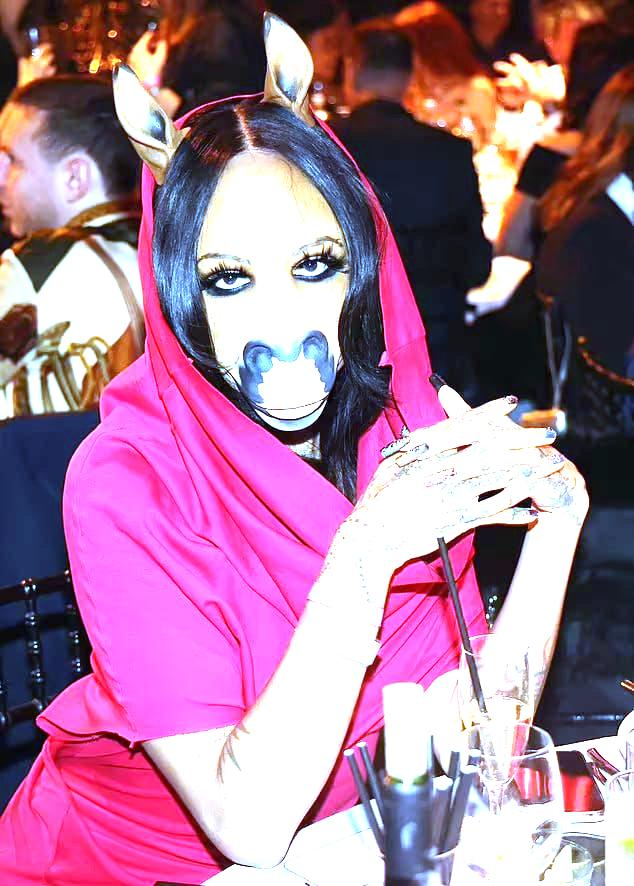
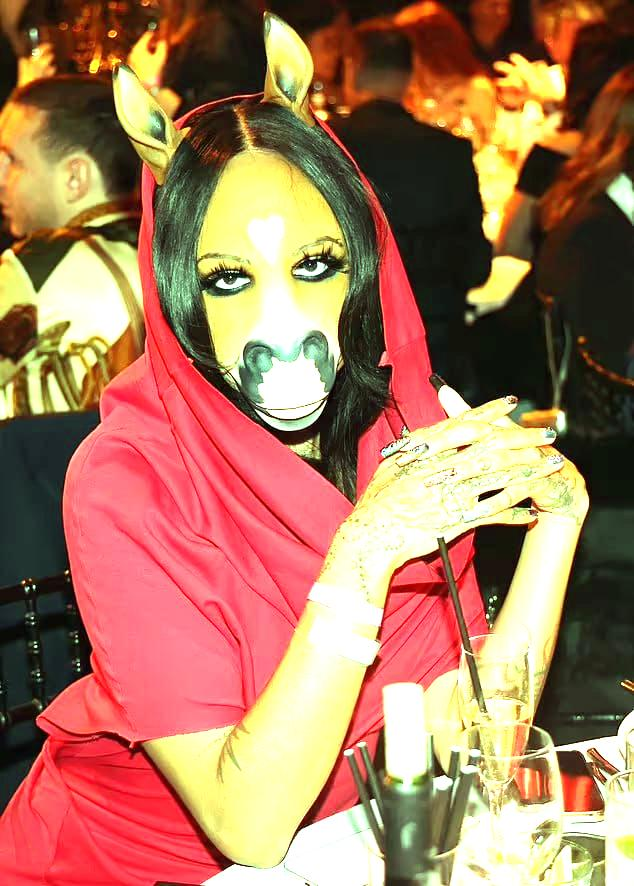
Changed func sepia

diff --git a/lab01/lab01.py b/lab01/lab01.py
@@ -19,8 +19,8 @@ class ImageRemaker:
     def color_correction(self, red: float, green: float, blue: float):
         # скопируем изображение, чтобы не менять изначальное
         # будем производить все операции на копии
-        corrected_image = self.image.copy()
-        pixels = corrected_image.load()
+        new_image = self.image.copy()
+        pixels = new_image.load()
         # фактически картинка - матрица изпикселей, пробежимся по пикселю и изменим его
         # так как картинки совпадают, не надо снова искать w , h
 
@@ -41,7 +41,7 @@ class ImageRemaker:
                 b = min(b, 255)
                 pixels[w, h] = r, g, b
 
-        return corrected_image
+        return new_image
 
     # Накладываем шум на изображение
     def add_noise(self, intns: int):
@@ -65,6 +65,28 @@ class ImageRemaker:
                 # Меняем изначальные пиксели изображения на новые
                 pixels[w, h] = r, g, b
 
+        return new_image
+    #сепия
+    def sepia(self):
+        # вновь скопируем изображение
+        new_image = self.image.copy()
+        pixels = new_image.load() 
+        #проходимся по всей матрице из писелей
+        for w in range(self.width):
+            for h in range(self.height):
+                # берём текущие пиксели
+                r, g, b = pixels[w, h]
+                #Сепия - это теплый коричневатый оттенок, поэтому мы берем такие коэф., чтобы преобладали 
+                #красный и зеленый, после "смешиваем" их
+                r1 = 0.4 * r + 0.75 * g + 0.15 * b
+                g2 = 0.35 * r + 0.7 * g + 0.15 * b
+                b3 = 0.25 * r + 0.5 * g + 0.1 * b
+                # проверка чтоб не убежали за максимальное насыщение (255)
+                r1 = min(int(r1), 255)
+                g2 = min(int(g2), 255)
+                b3 = min(int(b3), 255)
+                # Меняем изначальные пиксели изображения на полученные
+                pixels[w, h] = r1, g2, b3
         return new_image
 
     # Монотонность на изображении

diff --git a/lab02/lab02.py b/lab02/lab02.py
@@ -2,8 +2,8 @@ import os
 
 import numpy as np
 
-import lab01.lab01 as l1
-from moviepy import VideoFileClip, ImageSequenceClip
+from lab01 import lab01 as l1
+from moviepy import VideoFileClip, ImageSequenceClip, CompositeVideoClip, vfx
 from PIL import Image
 
 
@@ -49,3 +49,20 @@ class VideoRemaker():
     def combination(self, clip2: VideoFileClip,red,green, blue, intns, area_size):
         clip1 = self.change_video_while_playing(self.clip, red, green, blue, intns, area_size, 2)
         clip2 = self.change_video_while_playing(clip2, red, green, blue, intns, area_size, 3)
+        crossfade_duration = 1  
+
+        # Применяем эффект fadeout к первому клипу
+        clip1_fadeout = clip1.fx(vfx.fadeout, crossfade_duration)
+
+        # Применяем эффект fadein ко второму клипу
+        clip2_fadein = clip2.fx(vfx.fadein, crossfade_duration)
+
+        # Наложение клипов с эффектом crossfade
+        # Второй клип начинается за `crossfade_duration` секунд до конца первого клипа
+        final_clip = CompositeVideoClip([
+            clip1_fadeout,
+            clip2_fadein.set_start(clip1.duration - crossfade_duration)
+        ])
+
+        # Сохраняем результат
+        final_clip.write_videofile("output_crossfade.mp4", fps=24)

diff --git a/main.py b/main.py
@@ -7,16 +7,22 @@ IMAGE_SOURCE = "test_photo.jpg"
 VIDEO1_SOURCE = "clip.mp4"
 if __name__ == "__main__":
     # lab1
-    # image = Image.open(IMAGE_SOURCE)
-    # remaker = l1.ImageRemaker(image)
-    # img1 = remaker.color_correction(red=1.5, green=2.5, blue=3.8)
-    # remaker.save_image(img1,"color_corrected.jpg")
-    # img2 = remaker.add_noise(intns=120)
-    # remaker.save_image(img2, "noisy.jpg")
-    # img3 = remaker.monotone(area_size=9)
-    # remaker.save_image(img3,"mono_img.jpg")
+    image = Image.open(IMAGE_SOURCE)
+    remaker = l1.ImageRemaker(image)
+
+    img1 = remaker.color_correction(red=1.5, green=2.5, blue=1.8)
+    remaker.save_image(img1,"color_corrected.jpg")
+
+    img2 = remaker.add_noise(intns=120)
+    remaker.save_image(img2, "noisy.jpg")
+
+    img3 = remaker.sepia()
+    remaker.save_image(img3, "sepia.jpg")
+
+    img4 = remaker.monotone(area_size=9)
+    remaker.save_image(img4,"mono_img.jpg")
     # lab2
-    clip = VideoFileClip(VIDEO1_SOURCE)
-    VideoMaker=l2.VideoRemaker(clip)
-    clip1=VideoMaker.change_video_while_playing(red=1.5, green=2.5, blue=3.8)
-    VideoMaker.save_clip(clip1,"noisy_vid.mp4")
+    # clip = VideoFileClip(VIDEO1_SOURCE)
+    # clip2 = VideoFileClip(VIDEO1_SOURCE)
+    # VideoMaker=l2.VideoRemaker(clip)
+    # VideoMaker.combination(clip2, 0.3, 0.2, 0.4, 100, 2)
